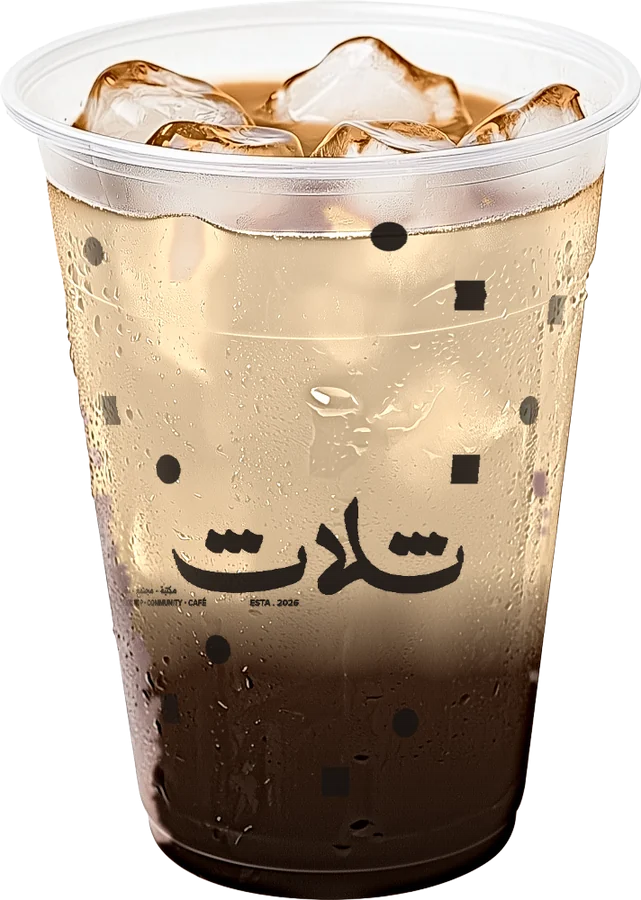
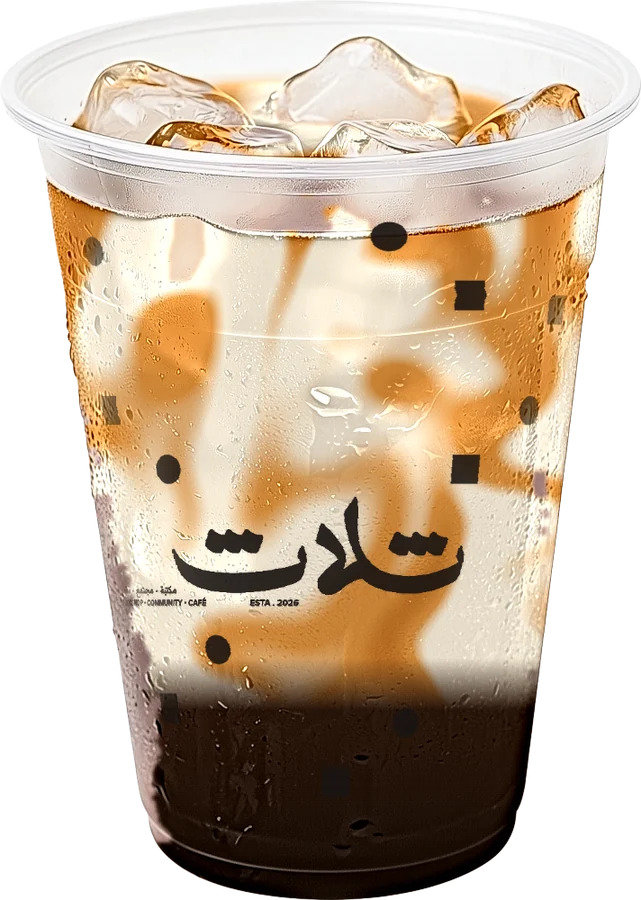
Publish: Caramel Chapter and Oasis cups
Claude-Session: https://claude.ai/code/session_01Xd3xyn7jQwQfncXeXzqGQd

diff --git a/index.html b/index.html
@@ -489,7 +489,7 @@ function itemHTML(it,s){const d=`style="animation-delay:${.05+(n++)*.035}s"`,k=e
    <span class="e2 en">${esc(it.en)}</span>${it.nut?`<span class="nut en">${esc(it.nut)}</span>`:''}</li>`}
 const CZ=['specials','hot','iced','signature','matcha','tea','mojito','protein','milk','cakes','sweets','more','sandwiches'];
 // picture per item (section|name -> file under assets/); overrides 3D
-const PIC={'signature|كراميل تشابتر':'drinks/caramelChapter',
+const PIC={'signature|كراميل تشابتر':'drinks/caramelChapter','signature|أواسيس':'drinks/oasis',
  'matcha|ماتشا مثلج فانيلا':'drinks/matchaVanilla','matcha|ماتشا مثلج توت العليق':'drinks/matchaRaspberry','matcha|ماتشا مثلج فراولة':'drinks/matchaStrawberry',
  'matcha|ماتشا مثلج كراميل':'drinks/matchaCaramel','matcha|أيس ماتشا إسبريسو':'drinks/matchaEspresso','matcha|بينك أوسيس ماتشا':'drinks/pinkOasis',
  'tea|شاي مثلج ليمون':'drinks/icedTeaLemon','tea|شاي مثلج خوخ':'drinks/icedTeaPeach',
@@ -498,7 +498,7 @@ const PIC={'signature|كراميل تشابتر':'drinks/caramelChapter',
  'mojito|موهيتو ميكس بيري':'drinks/mojitoMixBerry','mojito|موهيتو فراولة وبطيخ':'drinks/mojitoWatermelon','mojito|موهيتو تفاح أخضر':'drinks/mojitoApple',
  'protein|بروتين شيك فراولة':'drinks/shakeStrawberry','protein|بروتين شيك توت أزرق':'drinks/shakeBlueberry','protein|بروتين شيك موز':'drinks/shakeBanana','cakes|كيك جزر':'food/carrotCake','cakes|كيك ليمون':'food/lemonCake','cakes|بنانا بريد':'food/bananaBread','cakes|بيكان تارت':'food/pecanTart','cakes|هاوس كيك':'food/houseCake','cakes|كيكة اليقطين':'food/pumpkinCake','cakes|كيكة الشوكولاتة':'food/chocCake','cakes|لامينغتون':'food/lamington','sweets|كوكيز شوفان وهيل':'food/oatCookie','sweets|كعك تمر':'food/maamoul','sweets|لقيمات براونيز':'food/brownieBites','sweets|رز بالحليب':'food/ricePudding','sweets|كوكيز شوكولاتة تشيبس':'food/chipCookie','sweets|كوكيز شوكولاتة':'food/chocCookie','more|كيك فانيلا خالٍ من الجلوتين':'food/houseCake','more|بروتين بار 1':'food/proteinBar1','more|بروتين بار 2':'food/proteinBar2','sandwiches|توست ساندوتش':'food/toast','milk|حليب اللوز':'food/milkAlmond','milk|حليب جوز الهند':'food/milkCoconut','milk|حليب خالي من اللاكتوز':'food/milkLactose','milk|شراب الكراميل المملح':'food/syrupSaltCaramel','milk|شراب الفانيلا':'food/syrupVanilla','milk|شراب الفراولة':'food/syrupStrawberry','milk|شراب الكراميل':'food/syrupCaramel','milk|شراب التوت':'food/syrupRaspberry','milk|إضافة إسبريسو':'food/shotEspresso','milk|كريمة':'food/cream','tea|بابونج':'drinks/teaChamomile','tea|خوخ':'drinks/teaPeach','tea|شاي إنجليزي':'drinks/teaBlack','tea|شاي أسود فاخر':'drinks/teaBlack','tea|شاي أسود':'drinks/teaBlack','tea|شاي أبيض':'drinks/teaWhite','tea|أولونغ':'drinks/teaOolong','tea|شاي أخضر بالزهور':'drinks/teaGreen','tea|شاي أخضر حصاد الصيف':'drinks/teaGreen','tea|ليدي جراي':'drinks/teaLadyGrey','tea|حديقة الزهور':'drinks/teaFloral','tea|شاي أكياس':'drinks/teaBlack','tea|شاي ياسمين':'drinks/teaJasmine','tea|شاي أخضر لؤلؤ':'drinks/teaGreen','tea|أزهار مشكلة':'drinks/teaFloral','tea|قرفة':'drinks/teaCinnamon','tea|قهوة بيضاء / كانارينو':'drinks/teaWater','tea|أكياس شاي أعشاب':'drinks/teaFloral','cakes|كيكة العسل':'food/honeyCake','sweets|بارفيه':'food/parfait','sweets|براونيز':'food/brownie','sweets|شريحة شوكولاتة':'food/chocSlice','sweets|لقيمات تشيزكيك':'food/cheesecakeBites','more|مياه غازية':'food/sparkling','more|ماء نوفا':'food/nova','more|كوكيز خالٍ من الجلوتين':'food/gfCookie','more|كيك خالٍ من الجلوتين':'food/houseCake','sandwiches|ساندويتش شيدر':'food/cheddar','sandwiches|ساندويتش تركي':'food/turkey','sandwiches|ساندويتش فيتا':'food/feta','cakes|كيك تمر':'food/dateCake','cakes|كيك ماربل':'food/marbleCake','more|كيك ماربل خالٍ من الجلوتين':'food/marbleCake','sandwiches|ساندويتش حلومي':'food/halloumi','sandwiches|ساندويتش مرتديلا':'food/mortadella','sandwiches|ساندويتش تونة':'food/tuna','sandwiches|ساندويتش زعتر':'food/zaatar','sandwiches|ساندويتش دجاج':'food/chicken','hot|إسبريسو':'food/espressoSet','hot|إسبريسو ديكاف':'food/espressoSet'};
 // colour field per picture, and per section when an item has neither
-const PBG={teaChamomile:'#a8862e',teaWhite:'#a89a5e',teaJasmine:'#a08a3a',teaGreen:'#7d8a3a',teaOolong:'#a8662a',teaLadyGrey:'#9a5228',teaPeach:'#b0703a',teaBlack:'#7a2e1a',teaCinnamon:'#843820',teaFloral:'#9a3a48',teaWater:'#8a8270',caramelChapter:'#a86c38',matchaVanilla:'#6f8f55',matchaRaspberry:'#7d8a55',matchaStrawberry:'#7d8a55',matchaCaramel:'#7a8a50',matchaEspresso:'#5f6f45',pinkOasis:'#8a8a5a',
+const PBG={teaChamomile:'#a8862e',teaWhite:'#a89a5e',teaJasmine:'#a08a3a',teaGreen:'#7d8a3a',teaOolong:'#a8662a',teaLadyGrey:'#9a5228',teaPeach:'#b0703a',teaBlack:'#7a2e1a',teaCinnamon:'#843820',teaFloral:'#9a3a48',teaWater:'#8a8270',caramelChapter:'#a86c38',oasis:'#7d6a5a',matchaVanilla:'#6f8f55',matchaRaspberry:'#7d8a55',matchaStrawberry:'#7d8a55',matchaCaramel:'#7a8a50',matchaEspresso:'#5f6f45',pinkOasis:'#8a8a5a',
  icedTeaLemon:'#a87a30',icedTeaPeach:'#b8703a',mojitoBlue:'#2d5f8a',mojitoStrawberry:'#a8475a',mojitoKiwi:'#6b8a3a',mojitoBlueberry:'#4f3f78',mojitoPassion:'#b77a2a',
  lemonBreeze:'#a8953a',mojitoMixBerry:'#7a2a44',mojitoWatermelon:'#b0495a',mojitoApple:'#6f8f3a',shakeStrawberry:'#b5727e',shakeBlueberry:'#6f5f96',shakeBanana:'#b89c52'};
 const SBG={milk:'#a8917a',signature:'#b0743d',matcha:'#6f8f55',tea:'#b06a35',mojito:'#4f7d8c',protein:'#b5838d',cakes:'#a8744e',sweets:'#8a5a3c',more:'#7d6a58',sandwiches:'#9a7a52'};
@@ -506,7 +506,7 @@ function has3D(it){return !!MODELS[key(it)]&&!picOf(it)}
 const IXT={specials:{p:'drinks/caramelChapter',c:'#a86c38',w:1},hot:{m:'latte',c:'#7a4a2e'},iced:{p:'drinks/icedLatte',c:'#9c7458'},signature:{p:'drinks/caramelChapter',c:'#b0743d'},
  matcha:{p:'drinks/matchaStrawberry',c:'#5f7f45'},tea:{p:'drinks/teaBlack',c:'#7a2e1a'},mojito:{p:'drinks/mojitoStrawberry',c:'#a8475a'},protein:{p:'drinks/shakeStrawberry',c:'#b5727e'},
  milk:{p:'food/syrupCaramel',c:'#a8917a'},cakes:{p:'food/honeyCake',c:'#a8744e'},sweets:{p:'food/chipCookie',c:'#8a5a3c'},more:{p:'food/proteinBar1',c:'#7d6a58'},sandwiches:{p:'food/toast',c:'#9a7a52'},events:{c:'#3d5248',w:1}};
-function ixTile(s,i,attr,extra=''){const t=IXT[s.id]||{};const pic=t.p?`<img src="assets/${t.p}.webp?v=41" alt="" loading="lazy" class="${t.p.startsWith('food/')?'fd':''}">`:t.m?`<img data-still="${t.m}" alt="">`:'<span class="mk"></span>';
+function ixTile(s,i,attr,extra=''){const t=IXT[s.id]||{};const pic=t.p?`<img src="assets/${t.p}.webp?v=42" alt="" loading="lazy" class="${t.p.startsWith('food/')?'fd':''}">`:t.m?`<img data-still="${t.m}" alt="">`:'<span class="mk"></span>';
   return `<a ${attr}="${i+1}" class="${t.w&&!extra?'w':''} ${extra}" style="--i:${i};--c:${t.c||'#8a5a3c'}"><span class="tx"><span class="tt">${esc(s.title)}</span><span class="ee en">${esc(s.en)}</span></span><span class="im">${pic}</span></a>`}
 async function ixStills(root){const ims=[...root.querySelectorAll('img[data-still]')];if(!ims.length)return;try{const m=await getM3D();for(const im of ims){const k=im.dataset.still;SNAP['ix'+k]=SNAP['ix'+k]||m.still(k,{w:360,h:440,phi:PHI(k)});im.src=await SNAP['ix'+k];im.removeAttribute('data-still')}}catch(e){console.error(e)}}
 function picOf(it){const k=key(it);if(PIC[k])return PIC[k];const md=MODELS[k];return md&&PHOTO[md.m]?'drinks/'+PHOTO[md.m]:null}
@@ -887,7 +887,7 @@ function czLayout(pg,pos,dragging){const c=pg.cz;c.pos=pos;const W=c.st.clientWi
     f.style.opacity=(a<.5&&c.view&&c.liveOn)?0:(1-Math.min(a,2)*.3).toFixed(2)});
   if(dragging&&c.view){c.view.hide();c.liveOn=false;c.figs.forEach((f,i)=>{if(Math.abs(i-pos)<.5)f.style.opacity=1})}}
 async function czSnap(pg,i){const c=pg.cz,it=c.its[i],md=MODELS[key(it)],f=c.figs[i],img=f.querySelector('img');if(img.src||f.classList.contains('fb'))return;const pic=picOf(it);
-  if(pic){img.classList.add('ph');if(pic.startsWith('food/'))img.classList.add('food');img.onload=()=>{img.classList.add('ok');const l=f.querySelector('.ld');if(l)l.remove()};img.src='assets/'+pic+'.webp?v=41';return}
+  if(pic){img.classList.add('ph');if(pic.startsWith('food/'))img.classList.add('food');img.onload=()=>{img.classList.add('ok');const l=f.querySelector('.ld');if(l)l.remove()};img.src='assets/'+pic+'.webp?v=42';return}
   if(!md){f.classList.add('fb');const l=f.querySelector('.ld');if(l)l.remove();return}const k=md.m;
   try{const m=await getM3D();SNAP[k]=SNAP[k]||m.still(k,{w:520,h:680,phi:PHI(k)});const url=await SNAP[k];img.onload=()=>{img.classList.add('ok');const l=f.querySelector('.ld');if(l)l.remove()};img.src=url}catch(e){console.error(e)}}
 async function czPreload(pg){const c=pg.cz;const order=[...c.its.keys()].sort((a,b)=>Math.abs(a-c.act)-Math.abs(b-c.act));for(const i of order)await czSnap(pg,i)}
